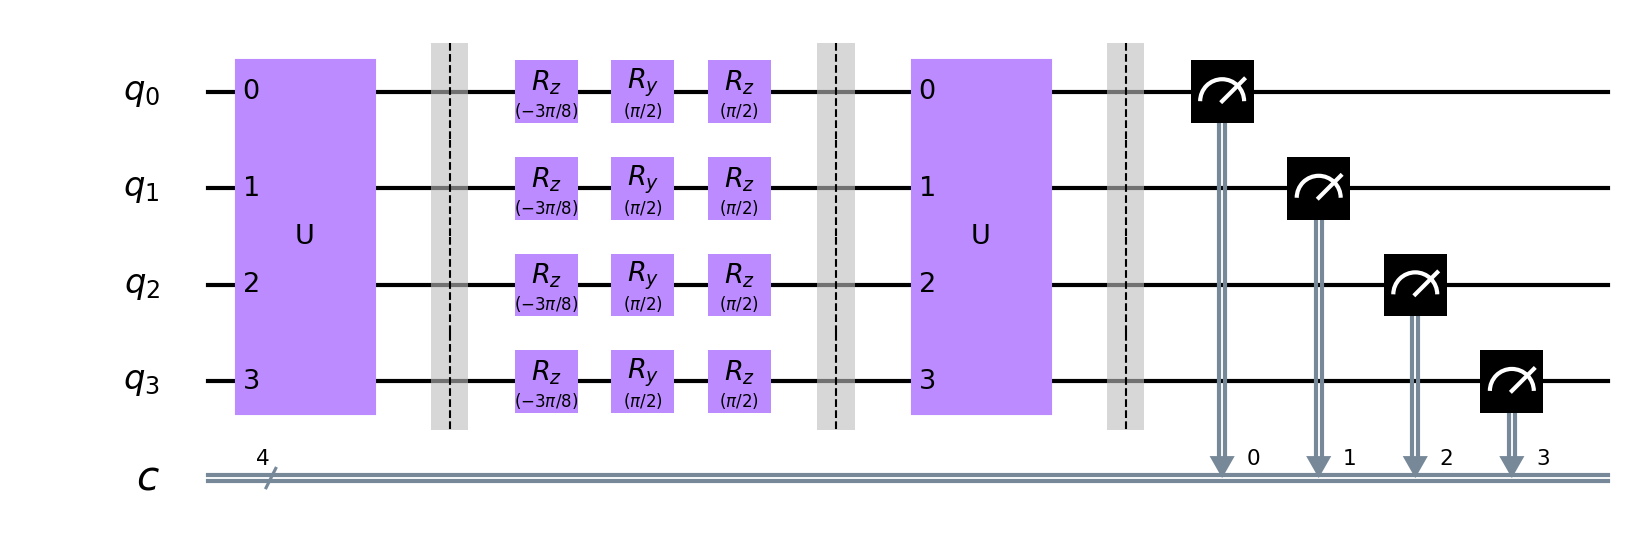
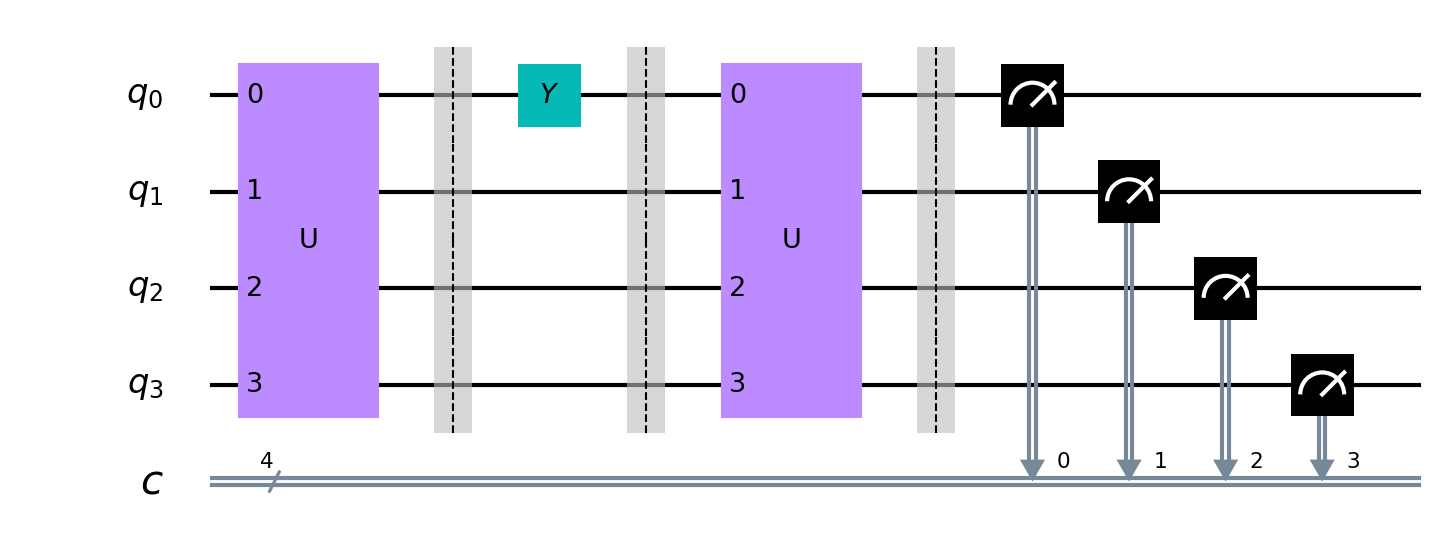
final fix

Changed region(s): [[0.0622, 0.0617, 0.9959, 0.8947]]

diff --git a/gui.py b/gui.py
@@ -34,8 +34,6 @@ class GameTheoryApp:
         
         self.all_states = []
         
-        self.circuit_img_str=''
-
         self.circuit_img_str = ''
         self.RawGameResults = []
 
@@ -317,9 +315,10 @@ class GameTheoryApp:
 ################RUNQISKIT###############################
 
     def draw_circuit(self):
-        pyxel.rectb(110, 110, 30, 10, 7)
-        pyxel.text(115, 112, "Next", 7)
+        # pyxel.rectb(110, 110, 30, 10, 7)
+        # pyxel.text(115, 112, "Next", 7)
         # pyxel.blt(1, 1, 0, 0, 0, 200, 106)
+
 
         img=mpimg.imread(self.circuit_img_str)
         imgplot = plt.imshow(img)
@@ -328,6 +327,9 @@ class GameTheoryApp:
 
     def draw_results(self):
         self.quantum_results()
+
+        pyxel.rectb(110, 110, 30, 10, 7)
+        pyxel.text(115, 112, "Next", 7)
 
         state_1 = ''.join(self.state_1)
         state_2 = ''.join(self.state_2)
@@ -501,16 +503,20 @@ class GameTheoryApp:
             self.game_state = GameState.RESULTS
             
 
+    def quantum_results(self):
         self.all_states = [self.state_1, self.state_2, self.state_3, self.state_4]
 
         self.RawGameResults, self.circuit_img_str = self.backend.play(self.all_states)
 
+
     def handle_circuit(self):
-        if pyxel.btnp(pyxel.MOUSE_LEFT_BUTTON) and pyxel.mouse_x > 119 and pyxel.mouse_x < 139 and pyxel.mouse_y < 119 and pyxel.mouse_y > 110:
-            self.game_state = GameState.CIRCUIT
+        # if pyxel.btnp(pyxel.MOUSE_LEFT_BUTTON) and pyxel.mouse_x > 119 and pyxel.mouse_x < 139 and pyxel.mouse_y < 119 and pyxel.mouse_y > 110:
+        #     self.game_state = GameState.CIRCUIT
+        None
 
     def handle_results(self):
-        None
+        if pyxel.btnp(pyxel.MOUSE_LEFT_BUTTON) and pyxel.mouse_x > 119 and pyxel.mouse_x < 139 and pyxel.mouse_y < 119 and pyxel.mouse_y > 110:
+            self.game_state = GameState.CIRCUIT
 
     ### Pyxel Function Wrappers ###
 

diff --git a/backend.py b/backend.py
@@ -48,4 +48,5 @@ class Backend():
         choices = self._simulation(qgc)
         game_result = self.game.get_result(choices)
 
-        return game_result, self.img_path
+
+        return game_result[::-1], self.img_path
